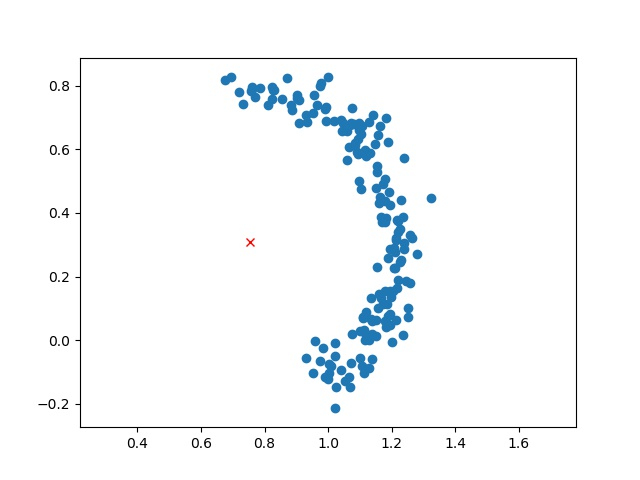
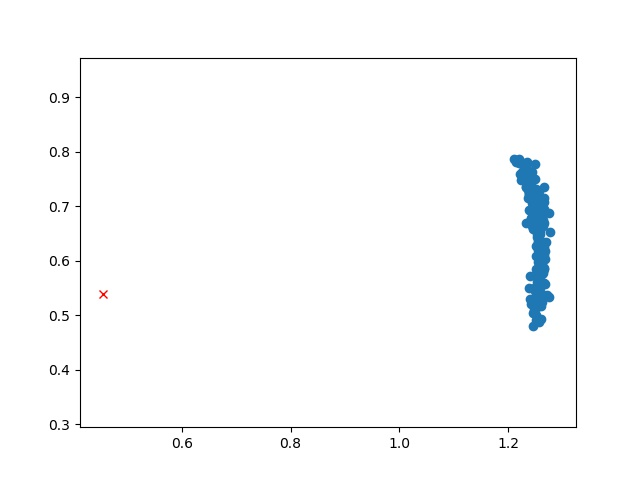
exp3 by dual ascent.

diff --git a/exp3.py b/exp3.py
@@ -7,27 +7,51 @@ data = np.loadtxt("data/data0.txt")
 epsilon = 0
 
 # use scipy.linprog to get reference result
-c = [0,0,0]+[1 for _ in range(2*data.shape[0])]
+c = [0,0,0,0,0,0]+[1 for _ in range(2*data.shape[0])]
 A = []
 b = []
 for i in range(data.shape[0]):
-    _A = [-2*data[i,0], -2*data[i,1], -1] + [0 for _ in range(2*data.shape[0])]
-    _A[3+2*i] = -1
+    _A = [-2*data[i,0], -2*data[i,1], -1] + [2*data[i,0], 2*data[i,1], 1] + [0 for _ in range(2*data.shape[0])]
+    _A[6+2*i] = -1
     A.append(_A)
     b.append(-data[i,0]**2-data[i,1]**2+epsilon)
-    _A = [2*data[i,0], 2*data[i,1], 1] + [0 for _ in range(2*data.shape[0])]
-    _A[3+2*i+1] = -1
+    _A = [2*data[i,0], 2*data[i,1], 1] + [-2*data[i,0], -2*data[i,1], -1] + [0 for _ in range(2*data.shape[0])]
+    _A[6+2*i+1] = -1
     A.append(_A)
     b.append(data[i,0]**2+data[i,1]**2-epsilon)
-bounds = [(None,None), (None,None), (None,None)]+ [(0,None) for _ in range(2*data.shape[0])]
-res = linprog(np.array(c), A_ub=np.array(A), b_ub=np.array(b), bounds=bounds, method='interior-point')
+c = np.array(c)
+A = np.array(A)
+b = np.array(b)
+#res = linprog(np.array(c), A_ub=np.array(A), b_ub=np.array(b), method='interior-point')
 
+x = np.array(c*0)
+m = np.array(b*0)
+n = np.array(x*0)
+learning_rate = 0.1
+rou = 0.001
+for e in range(50):
+    t = np.sum(c*x)+np.sum(m*(np.matmul(A,x)-b))+rou/2*np.sum((np.matmul(A,x)-b)**2)+rou/2*np.sum(x**2)
+    t0 = t
+    counter = 0
+    while t<=t0 and counter<10000:
+        t0 = t
+        counter = counter+1
+        g = -c-np.matmul(A.T,(m+rou*(np.matmul(A,x)-b)))+n-rou*x
+        g = np.clip(g,-1,1)
+        x = x + learning_rate*(g)
+        t = np.sum(c*x)+np.sum(m*(np.matmul(A,x)-b))+rou/2*np.sum((np.matmul(A,x)-b)**2)+rou/2*np.sum(x**2)
+    m = m + rou*(np.matmul(A,x)-b)
+    n = n + rou*(-x)
 
-a = res.x[0]
-b = res.x[1]
-r = np.sqrt(res.x[0]**2+res.x[1]**2+res.x[2])
-delta_r_mean = np.mean(np.sqrt(np.sum((data-res.x[:2])**2,1))-r)
-Guassian_p = normaltest(np.sqrt(np.sum((data-res.x[:2])**2,1))-r).pvalue
+a = x[0]-x[3]
+b = x[1]-x[4]
+r = np.sqrt(a**2+b**2+x[2]-x[5])
+# a = res.x[0]-res.x[3]
+# b = res.x[1]-res.x[4]
+# r = np.sqrt(a**2+b**2+res.x[2]-res.x[5])
+delta_r_mean = np.mean(np.sqrt(np.sum((data-[a,b])**2,1))-r)
+Guassian_p = normaltest(np.sqrt(np.sum((data-[a,b])**2,1))-r).pvalue
+plt.cla()
 plt.scatter(data[:,0],data[:,1])
 plt.plot(a,b,'xr')
 plt.axis('equal')
